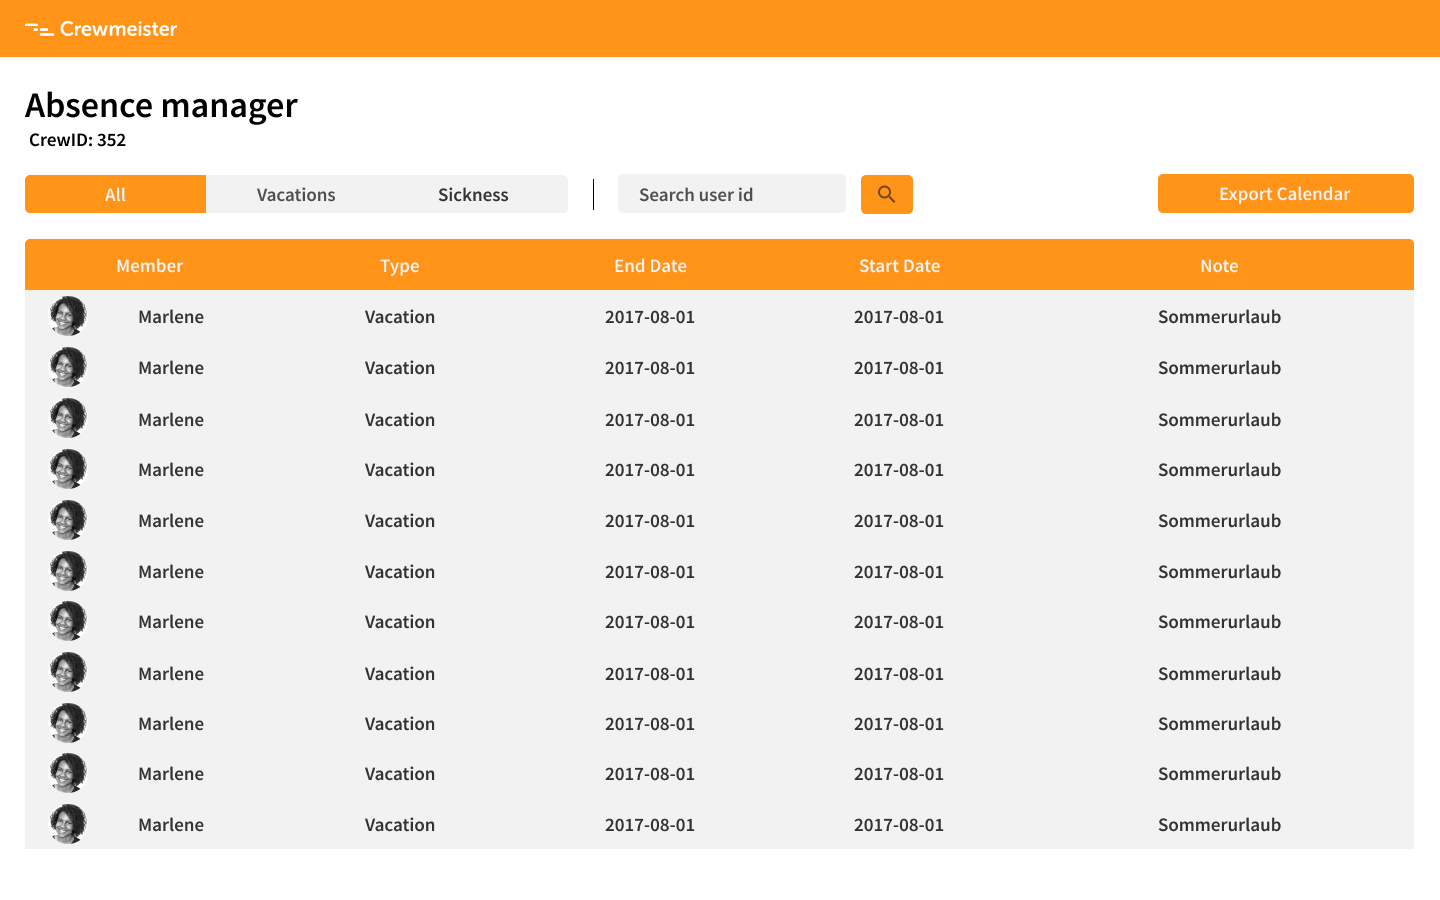
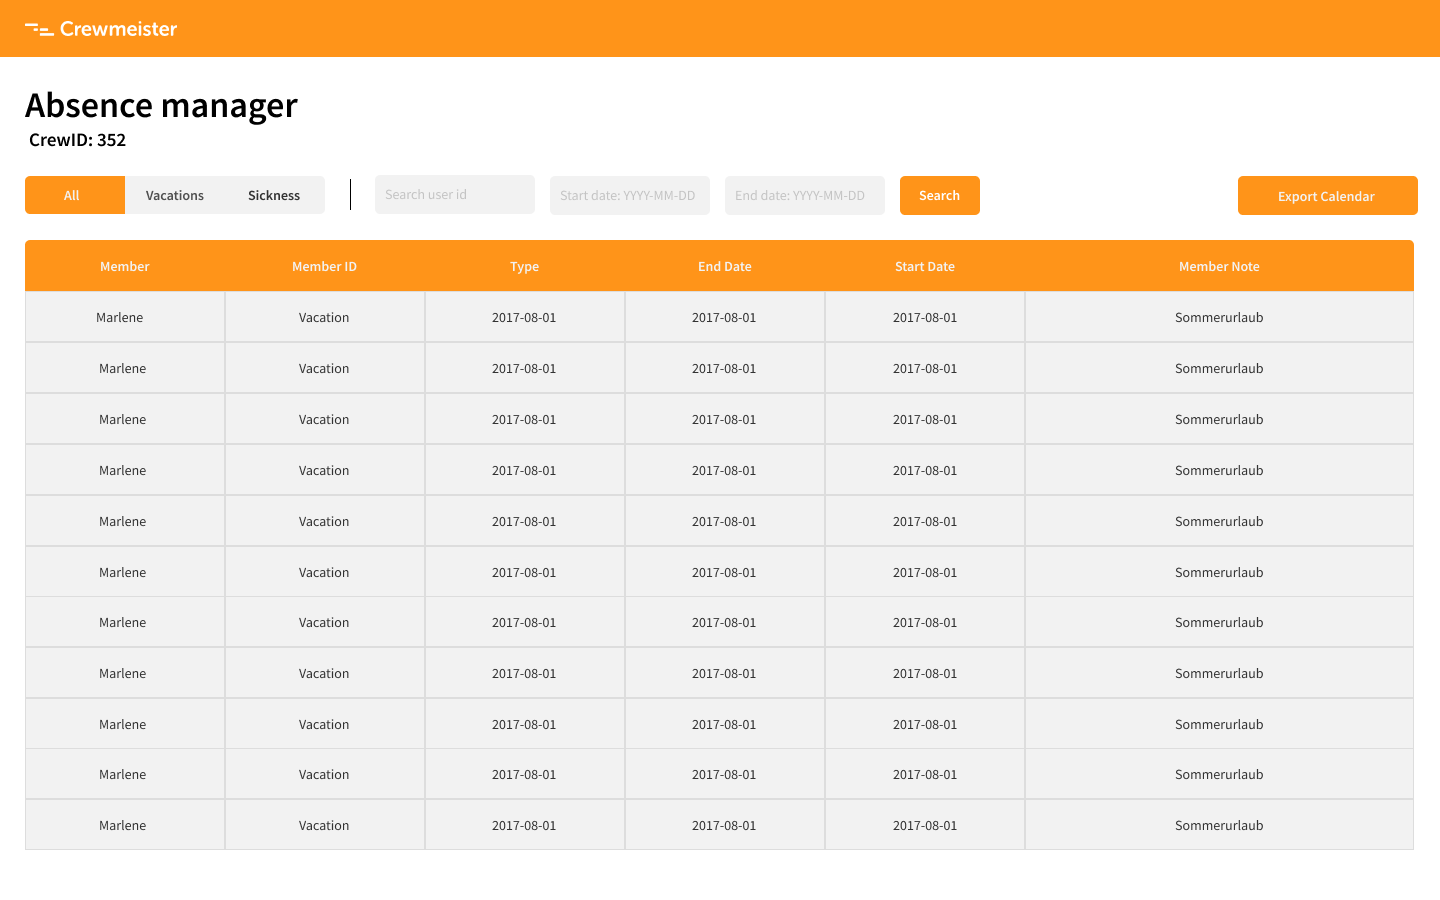
:lipstick: Updated toggle button style on click
Now the selected filter will be marked

diff --git a/bonus/src/pages/AbsenceManager/index.js b/bonus/src/pages/AbsenceManager/index.js
@@ -12,6 +12,7 @@ export default function AbsenceManager({ history }) {
   const [userId, setUserId] = useState(params.get('userId') ? params.get('userId') : '');
   const [startDate, setStartDate] = useState(params.get('startDate') ? params.get('startDate') : '');
   const [endDate, setEndDate] = useState(params.get('endDate') ? params.get('endDate') : '');
+  const [filterType, setFilterType] = useState('all');
 
   useEffect(() => {
     getAbsences('filter');
@@ -20,8 +21,10 @@ export default function AbsenceManager({ history }) {
   async function getAbsences(type) {
     let query = '';
     setTableView(true);
+    setFilterType('all');
     switch (type) {
       case 'all':
+        clearInputs();
         break;
       case 'filter':
         query = '?';
@@ -34,12 +37,20 @@ export default function AbsenceManager({ history }) {
         history.push(query.substr(0, query.length - 1));
         break;
       default:
+        clearInputs();
+        setFilterType(type);
         setTableView(false);
         query = `/${type}`;
         break;
     }
     const response = await api.get(`/absences${query}`);
     setAbsences(response.data.absences);
+  }
+
+  function clearInputs() {
+    setUserId('');
+    setStartDate('');
+    setEndDate('');
   }
 
   async function handleExport() {
@@ -53,9 +64,9 @@ export default function AbsenceManager({ history }) {
   }
 
   function getPattern() {
-    let str1 = '(?:19|20)[0-9]{2}-(?:(?:0[1-9]|1[0-2])-(?:0[1-9]|1[0-9]|2[0-9]';
-    str1 += ')|(?:(?!02)(?:0[1-9]|1[0-2])-(?:30))|(?:(?:0[13578]|1[02])-31))';
-    return str1;
+    const str1 = '(?:19|20)[0-9]{2}-(?:(?:0[1-9]|1[0-2])-(?:0[1-9]|1[0-9]|2[0-9]';
+    const str2 = ')|(?:(?!02)(?:0[1-9]|1[0-2])-(?:30))|(?:(?:0[13578]|1[02])-31))';
+    return str1 + str2;
   }
 
   return (
@@ -65,9 +76,15 @@ export default function AbsenceManager({ history }) {
       <div className="absences__options">
         <div className="absences__filters">
           <div>
-            <button onClick={ () => getAbsences('all') } className={ 'inactive left' }>All</button>
-            <button onClick={ () => getAbsences('vacations') } className={ 'inactive' }>Vacations</button>
-            <button onClick={ () => getAbsences('sickness') }className={ 'inactive right' }>Sickness</button>
+            <button onClick={ () => getAbsences('all') }
+              className={ `left ${ filterType === 'all' ? 'active' : 'inactive'}` }
+            >All</button>
+            <button onClick={ () => getAbsences('vacations') }
+              className={ (filterType === 'vacations' ? 'active' : 'inactive') }
+            >Vacations</button>
+            <button onClick={ () => getAbsences('sickness') }
+              className={ `right ${ filterType === 'sickness' ? 'active' : 'inactive'}` }
+            >Sickness</button>
           </div>
           <div className="divider" />
           <div>

diff --git a/bonus/src/pages/AbsenceManager/styles.css b/bonus/src/pages/AbsenceManager/styles.css
@@ -1,3 +1,8 @@
+button {
+  cursor: pointer;
+  font-weight: bold;
+}
+
 .absences {
   padding: 25px;
   height: 100%;
@@ -16,13 +21,13 @@
 }
 
 .absences__filters input {
-  width: 180px;
+  width: 160px;
   height: 39px;
   background: #F2F2F2;
   border-radius: 5px;
   border: 1px solid #F2F2F2;
   padding: 10px;
-  margin-right: 25px;
+  margin-right: 15px;
   color: #4F4F4F;
 }
 
@@ -33,7 +38,6 @@
   height: 39px;
   color: white;
   border-radius: 5px;
-  font-weight: bold;
 }
 
 .absences__filters button {
@@ -46,6 +50,11 @@
 .absences__filters button.inactive {
   background-color: #F2F2F2;
   color: #4F4F4F;
+}
+
+.absences__filters button.active {
+  background-color: #FF9419;
+  color: white;
 }
 
 .absences__filters button.left {
@@ -65,11 +74,10 @@
 .absences__export button {
   background-color: #FF9419;
   border: 1px solid #F2F2F2;
-  width: 220px;
+  width: 180px;
   height: 39px;
   color: white;
   border-radius: 5px;
-  font-weight: bold;
 }
 
 .absences__table-container {
